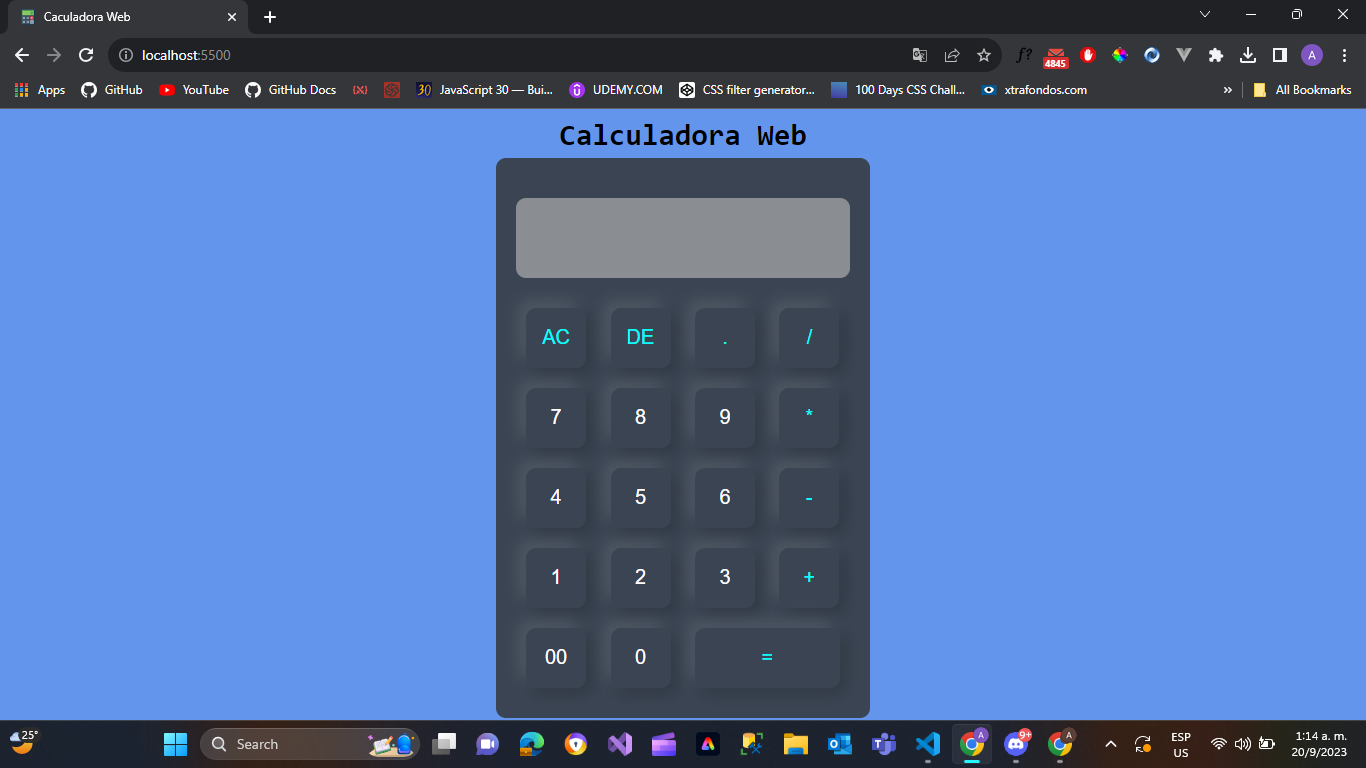
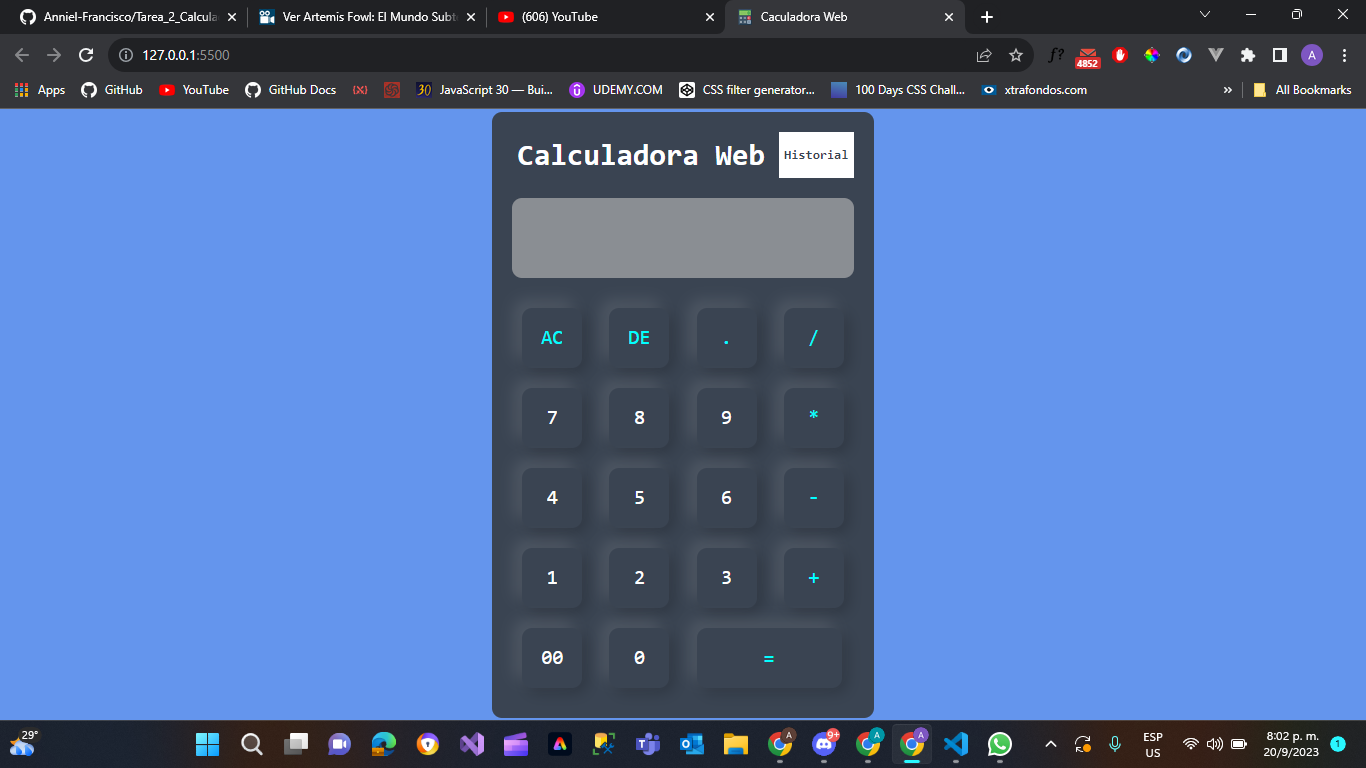
screenshots

diff --git a/README.md b/README.md
@@ -2,3 +2,5 @@
 
 Anniel Francisco Reyes Javier | 2022-0147 | 
 [Captura de Calculadora Web](captura%20de%20pantalla.png)
+[Operación](captura%20de%20pantalla%202.png)
+[Historial de calculos](captura%20de%20pantalla%203.png)
